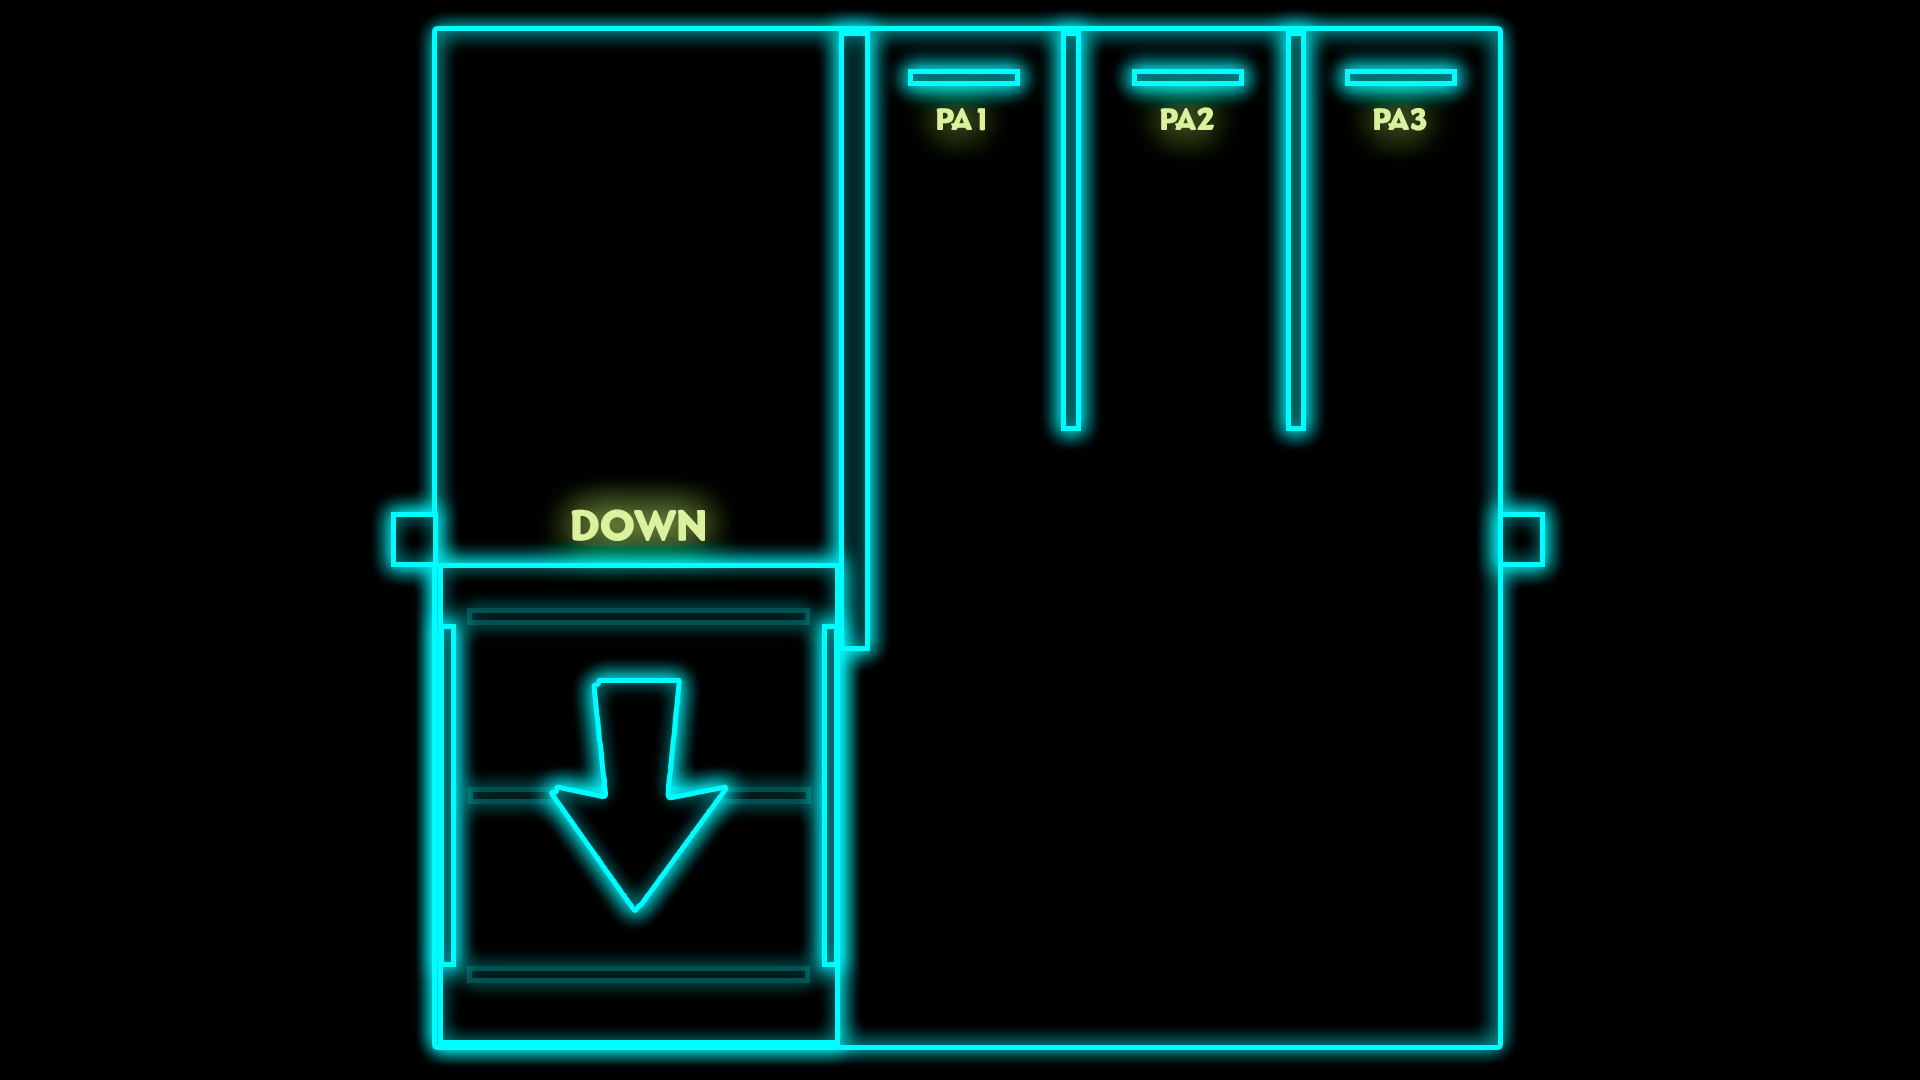
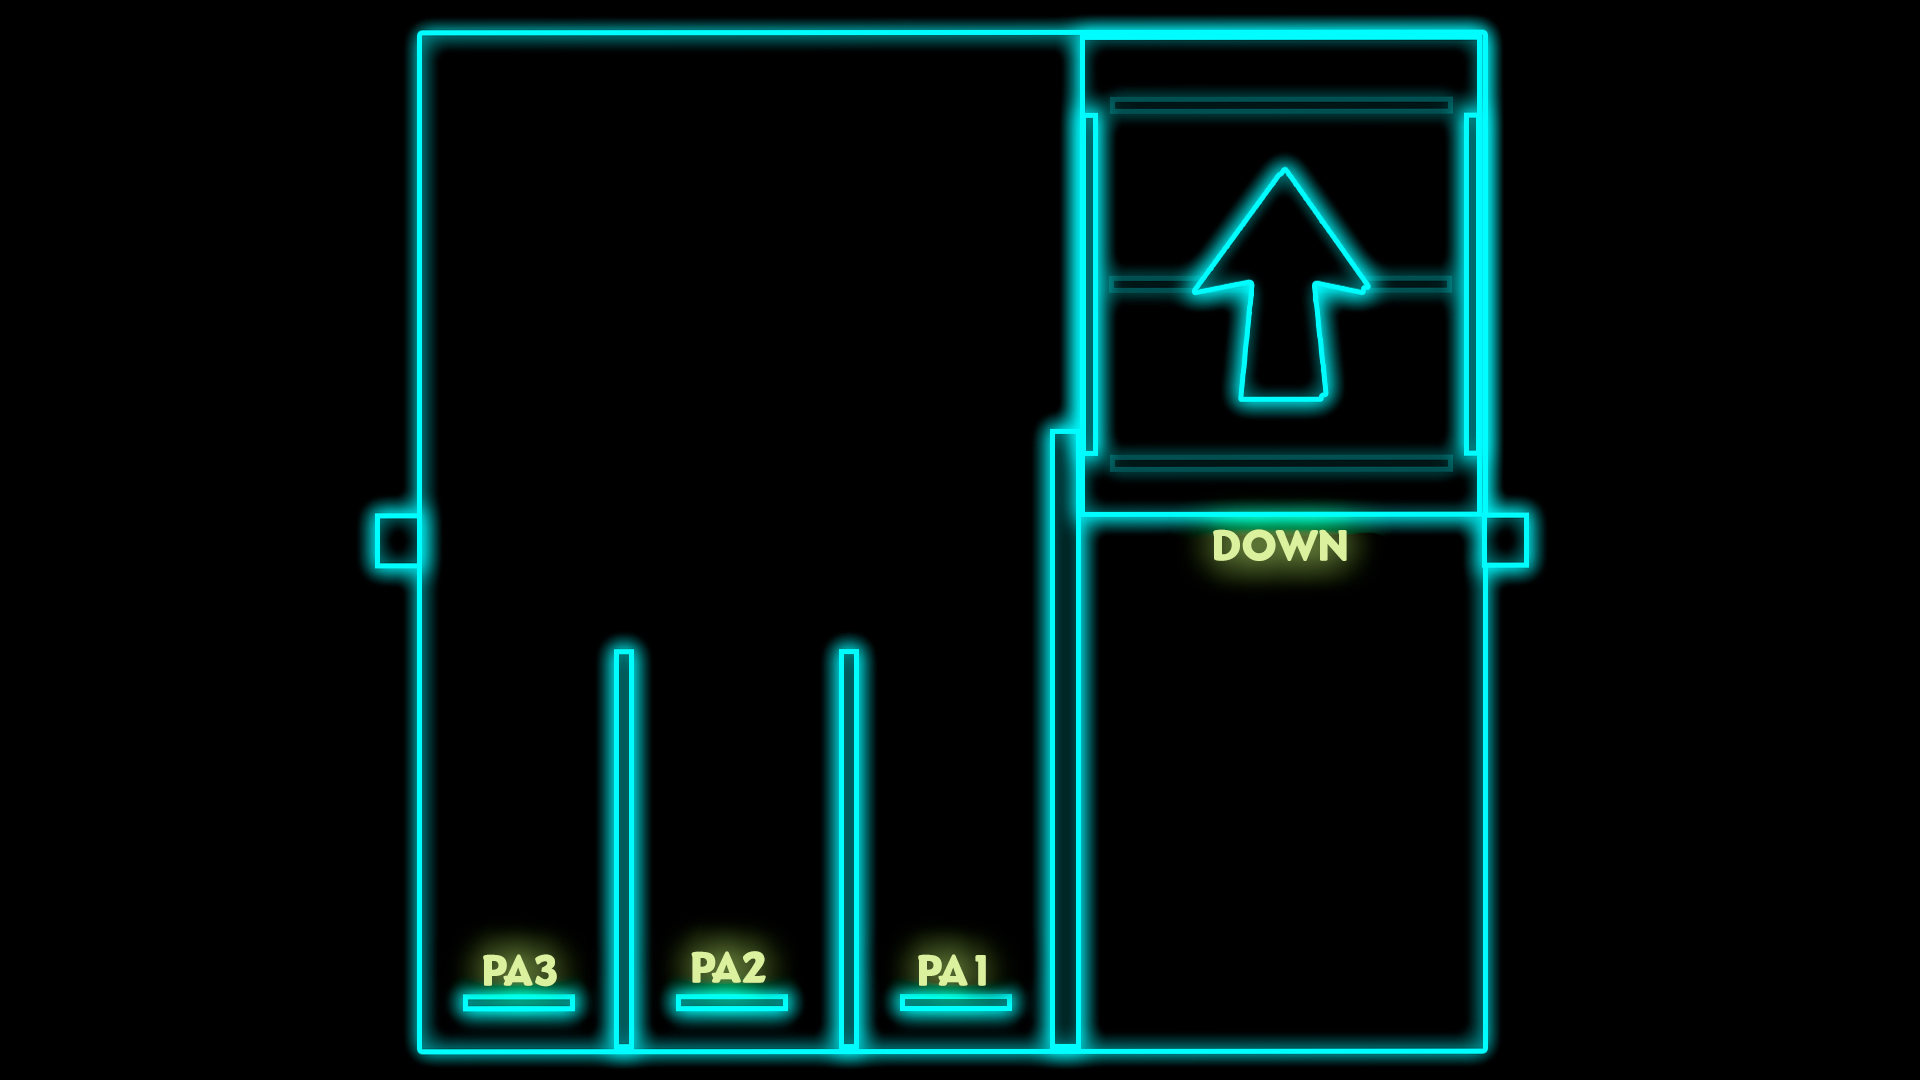
Nuevo code Flask + Socket IO

Changed region(s): [[0.1875, 0.0, 0.8125, 1.0]]

diff --git a/Proyecto P3 Electronica digital/FLASK + SOCKET IO/static/js/main.js b/Proyecto P3 Electronica digital/FLASK + SOCKET IO/static/js/main.js
@@ -1,13 +1,13 @@
 const socket = io();
 
 const posiciones = {
-  PB_1: { top: 72, left: 52 },
-  PB_2: { top: 25, left: 52 },
-  PB_3: { top: 25, left: 70 },
+  PB_1: { top: 27, left: 49 },
+  PB_2: { top: 74, left: 50 },
+  PB_3: { top: 74, left: 31 },
 
-  PA_1: { top: 26, left: 50 },
-  PA_2: { top: 26, left: 62 },
-  PA_3: { top: 26, left: 73 }
+  PA_1: { top: 74, left: 50 },
+  PA_2: { top: 74, left: 39 },
+  PA_3: { top: 74, left: 27 }
 };
 
 let estadoActual = {};
@@ -36,7 +36,7 @@ function renderAutos() {
     // Mostrar
     img.style.display = "block";
 
-    // ⚠ ESTO DEBE EJECUTARSE SIEMPRE
+    // Actualizar posición y estado
     img.style.top = posiciones[sensor].top + "%";
     img.style.left = posiciones[sensor].left + "%";
 

diff --git a/Proyecto P3 Electronica digital/FLASK + SOCKET IO/static/css/style.css b/Proyecto P3 Electronica digital/FLASK + SOCKET IO/static/css/style.css
@@ -27,6 +27,6 @@ body {
   transition: opacity 0.3s ease;
 }
 #titulo-plano {
-    color: #ccff00; /* Un color neón para que combine con tu plano */
+    color: #ccff00; 
     margin: 10px 0;
 }
